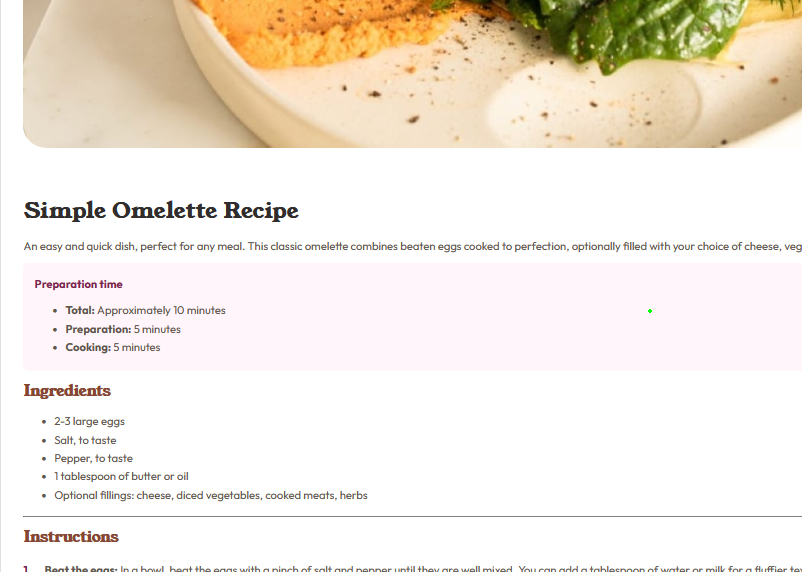
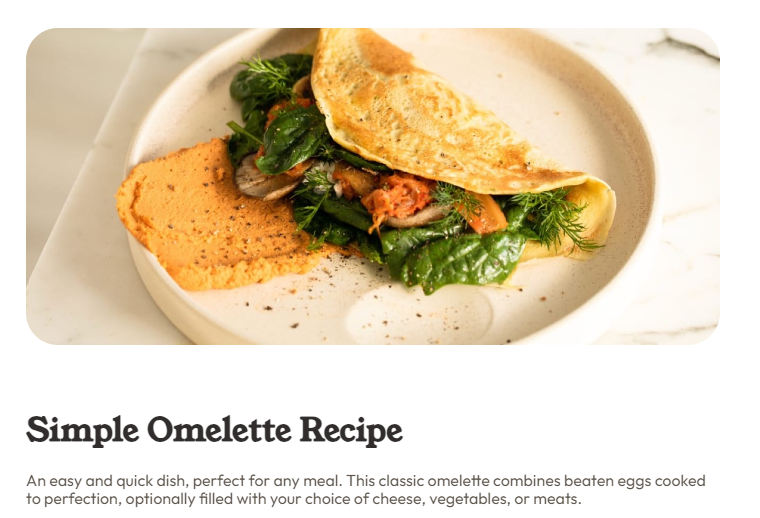
updated css and new readme img

diff --git a/css/styles.css b/css/styles.css
@@ -81,23 +81,25 @@ article {
 
 
 /** Instructions **/
-.instructions ol {
-    list-style: none;
-    counter-reset: number;
-    padding: 0;
+.instructions {
+    ol {
+        list-style: none;
+        counter-reset: number;
+        padding: 0;
+    }
+    ol li {
+        counter-increment: number;
+        font-size: 1rem;
+        padding: 0.5rem 0;
+    }
+    ol li::before {
+        content: counter(number) ".";
+        color: var(--clr-rose-800);
+        font-weight: bold;
+        padding-right: 1rem;
+    }
 }
-.instructions ol li {
-    counter-increment: number;
-    font-size: 1rem;
-    padding: 0.5rem 0;
 
-}
-.instructions ol li::before {
-    content: counter(number) ".";
-    color: var(--clr-rose-800);
-    font-weight: bold;
-    padding-right: 1rem;
-}
 
 /** Nutrition Table **/
 tr > :nth-child(2) {
@@ -126,9 +128,19 @@ td {
 
  /** screens larger than 375px **/
 @media screen and (min-width: 376px) {
+    body {
+        width: 90%;
+    }
+    
     img {
         object-fit: cover;
         border-radius: 2rem;
+        margin: 2rem;
+    }
+
+    article {
+        width: 100%;
+        padding: 0;
         margin: 2rem;
     }
 }
